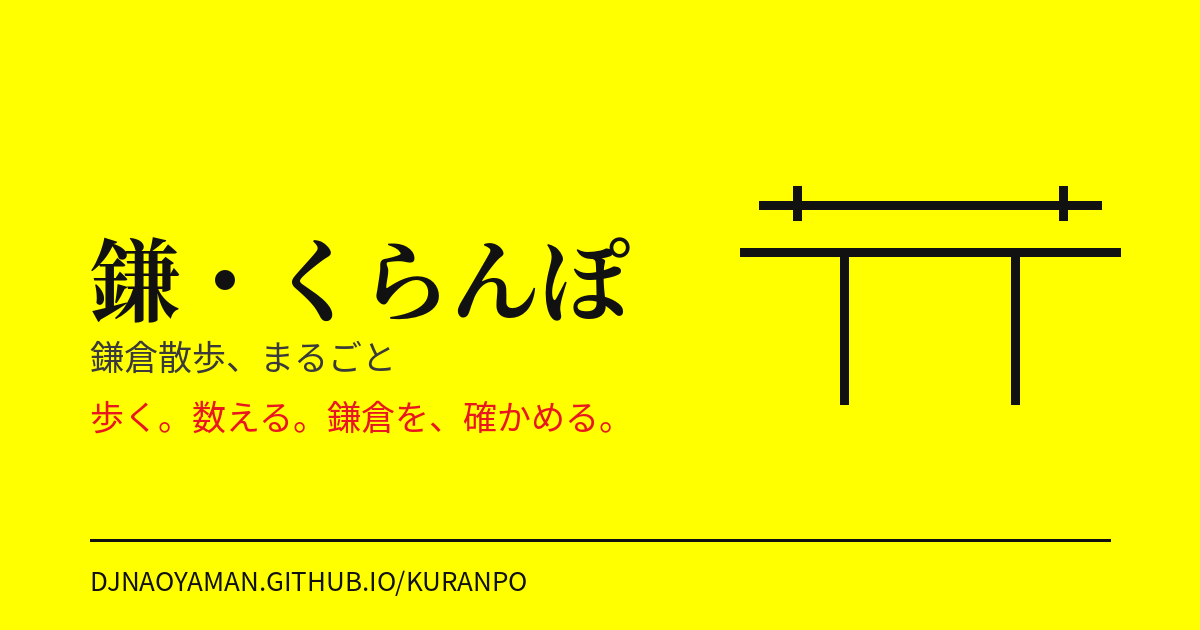
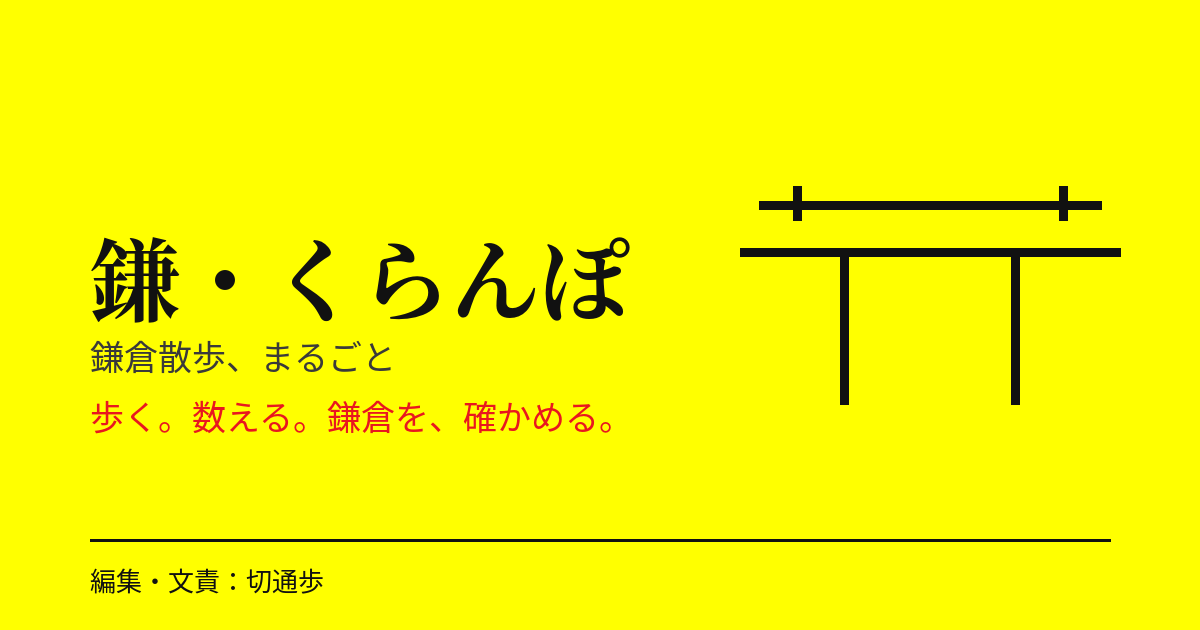
Deploy kuranpo v3.1.0 site content

Changed region(s): [[0.0617, 0.9048, 0.4317, 0.9651]]

diff --git a/changelog.html b/changelog.html
@@ -287,7 +287,8 @@
   <b style="color:var(--ink)">v2.7.0（2026-09-24）</b>：見出し・タイトル等に使っていた明朝体（Shippori Mincho）をやめ、全てゴシック体（Zen Kaku Gothic New）に統一。全36ページ・187箇所を一括変更し、不要になった明朝体フォントの読み込みも削除して軽量化した。<br>
   <b style="color:var(--ink)">v2.8.0（2026-09-24）</b>：①コースカード・章カードのグリッドを、1024px以上でも3列にせず最大2列で固定。②カードの高さがテキスト量によってバラバラに見えていたのを解消：グリッドの<code>align-items</code>を<code>stretch</code>にして同じ行のカードの高さを揃え、カード自体もflexの縦積みに変更。「くわしく読む」リンクを各カードの下端に固定し、本文の長さに関わらず読み終わりの位置が揃うようにした。<br>
   <b style="color:var(--ink)">v2.9.0（2026-09-24）</b>：これまでの度重なる配色変更の過程で、一部の色指定が古いバージョンのまま置き去りになっていたのを、全ファイルにわたって洗い出して修正。①足跡カーソルの色配列（フォールバック値）が、2世代前の配色（朱#E0391D・藍#17427E・苔#1B7A3D・黄土#D99A1B）のまま止まっていた箇所を、全36ページで現行配色に更新。②「トップに戻る」ボタンのホバー色が、最初期バージョンから一度も更新されずに残っていた（#7a2e1a／#7a2b1dの表記ゆれ含む）のを、現在の朱色に合わせて修正。③theme-colorメタタグが1世代前の朱色のままだったのを修正。④統計ボックスの文字色が、暖色系だった旧世代パレットの色（#F0DAC8等）のまま更新されておらず、現在のポップな配色から浮いていたのを、サイトの主色である黄色を軸にした配色に刷新。全ファイルでhex色・rgba値を総点検し、現行パレット以外の値がchangelogの過去バージョン記述を除いて残っていないことを確認済み。<br>
-  <b style="color:var(--ink)">v3.0.0（2026-09-24）</b>：①エリアの位置関係模式図を再設計。円のノードが5〜6文字のラベルに対して小さすぎ、文字がはみ出していたのを、角丸長方形（ピル型）に変更してラベル・コースコードが必ず収まるサイズを個別に計算。文字サイズも11px→16px、8px→11.5pxに拡大し、線・枠も太くしてサイト全体のポップな印象に合わせた。②サイト全体の文字サイズが、ポップで力強いトーン＆マナーに対して小さすぎるとの指摘を受け、本文・説明文・用語解説など読み物として使われる文字サイズを一律で約2px前後拡大（全36ページ・1199箇所）。コース別知識ページの見出しサイズも合わせて拡大。全ファイルの一括ダウンロードは<a href="kuranpo_v3.0.0.zip" style="color:var(--vermilion); text-decoration:underline;">kuranpo_v3.0.0.zip</a>から。
+  <b style="color:var(--ink)">v3.0.0（2026-09-24）</b>：①エリアの位置関係模式図を再設計。円のノードが5〜6文字のラベルに対して小さすぎ、文字がはみ出していたのを、角丸長方形（ピル型）に変更してラベル・コースコードが必ず収まるサイズを個別に計算。文字サイズも11px→16px、8px→11.5pxに拡大し、線・枠も太くしてサイト全体のポップな印象に合わせた。②サイト全体の文字サイズが、ポップで力強いトーン＆マナーに対して小さすぎるとの指摘を受け、本文・説明文・用語解説など読み物として使われる文字サイズを一律で約2px前後拡大（全36ページ・1199箇所）。コース別知識ページの見出しサイズも合わせて拡大。<br>
+  <b style="color:var(--ink)">v3.1.0（2026-09-24）</b>：以前の面白法人カヤックのWEBサイト（漫画的表現・ハーフトーン・星の爆発・ネイティブ感のあるアニメーション）を参照し、以下を実施。①「基礎知識・歴史知識」が6つのコース別チャプターと並列のカードとして並んでいたのを分離。コースを選ぶための入口ではなく読み物であることを示すため、破線囲みの横長バナーとして独立配置に変更。②トップのヒーローに、鎌倉大仏の簡略シルエット・ハーフトーンドット・きらめく星の爆発を追加。作者が歩いて確かめている土地の象徴を、抽象的な等高線モチーフから具体的な大仏モチーフへ転換。③OG画像の署名表記を、実URLに使われる技術的なGitHubアカウント名（NAOYAMAN）ではなく、このサイトの編者ペルソナである「切通歩」に修正。④コース別カード・章カードのホバー時の動きを、バネのように少し弾んでから収まる動き（オーバーシュートするイージング）に変更し、クリック時にもタップした感覚が伝わるフィードバックを追加。ゲームアプリに近いネイティブな触感を意識した。全ファイルの一括ダウンロードは<a href="kuranpo_v3.1.0.zip" style="color:var(--vermilion); text-decoration:underline;">kuranpo_v3.1.0.zip</a>から。
   <b style="color:var(--ink)">v1.9.0（2026-09-24）</b>：取りこぼしていた翻訳の追加・第1弾。index.htmlのタブ内の細部（所要時間の絞り込みボタン、エリア模式図マップの7エリア名、子供向けチャプターの理由説明4件、カードの「くわしく読む」リンク、歩いたスタンプボタンのツールチップ、季節のおすすめ11件の時期・理由、年間一覧の月名、開閉トグルボタン）を翻訳。作業の過程で、言語切替の内部処理（日本語原文のキャッシュ）が一部のカード（コンプリート版・宗教・人物・年表）の描画完了前に実行されてしまい、これらのカードで日本語に戻せなくなる可能性があったアーキテクチャ上の不具合を発見し、キャッシュ処理を全カード描画後に実行されるよう修正した。残る取りこぼし（エリア別・コンプリート版・子供向けカードのタイトルとテーマ文、宗教・人物・年表37レッグの本文）は次回以降で対応する。全ファイルの一括ダウンロードは<a href="kuranpo_v1.9.0.zip" style="color:var(--vermilion); text-decoration:underline;">kuranpo_v1.9.0.zip</a>から。
 </div>
 
@@ -386,6 +387,7 @@
     <li><span class="tag fix">v2.8.0</span>カードグリッドを1024px以上でも最大2列に固定（3列廃止）。カードの高さを行内で揃え、「くわしく読む」を下端に固定して文字量による見た目の不揃いを解消。</li>
     <li><span class="tag fix">v2.9.0</span>度重なる配色変更の過程で置き去りになっていた古い色指定を全ファイルで洗い出し修正：足跡カーソルの色配列、戻るボタンのホバー色、theme-colorメタタグ、統計ボックスの文字色。全て現行パレットに統一。</li>
     <li><span class="tag major">v3.0.0</span>エリア模式図を円からピル型に再設計し、文字はみ出しを解消。サイト全体の文字サイズをポップなトーンに合わせて一律拡大（約2px、全36ページ・1199箇所）。</li>
+    <li><span class="tag major">v3.1.0</span>面白法人カヤックの旧WEBサイトを参照。「基礎知識・歴史知識」をコースカードから分離し破線バナーに。ヒーローに大仏シルエット・ハーフトーン・星の爆発を追加。OG画像の署名を「切通歩」に修正。カード類のホバーをバネのように弾む動きに変更。</li>
   </ol>
 </section>
 

diff --git a/index.html b/index.html
@@ -113,8 +113,14 @@
 
   .contour-motif{
     position:absolute; top:0; right:0; height:100%; width:56%; max-width:640px;
-    color:var(--ink); opacity:.10; pointer-events:none;
+    color:var(--ink); opacity:.9; pointer-events:none;
   }
+  .am-star{color:var(--vermilion); animation:starTwinkle 2.4s ease-in-out infinite;}
+  @keyframes starTwinkle{
+    0%,100%{opacity:.5; transform-origin:center;}
+    50%{opacity:1;}
+  }
+  @media (prefers-reduced-motion: reduce){ .am-star{animation:none;} }
 
   /* ---------- back to top ---------- */
   .back-to-top{
@@ -213,11 +219,12 @@
   .ch{
     display:block; background:var(--card); padding:26px 22px 24px; cursor:pointer;
     border:3px solid var(--ink); border-radius:18px;
-    transition:transform .18s ease, box-shadow .18s ease;
+    transition:transform .28s cubic-bezier(.34,1.56,.64,1), box-shadow .28s cubic-bezier(.34,1.56,.64,1);
     text-decoration:none; color:inherit;
     box-shadow:5px 5px 0 rgba(17,17,17,0.14);
   }
-  .ch:hover{transform:rotate(-0.5deg) translateY(-3px); box-shadow:7px 8px 0 rgba(17,17,17,0.18);}
+  .ch:hover{transform:rotate(-1deg) translateY(-5px) scale(1.02); box-shadow:9px 10px 0 rgba(17,17,17,0.2);}
+  .ch:active{transform:rotate(-0.3deg) translateY(-1px) scale(.99); transition-duration:.05s;}
   .ch[data-tab="geo"] .ch-no, .ch[data-tab="kids"] .ch-no, .ch[data-tab="complete"] .ch-no{background:var(--vermilion);}
   .ch[data-tab="religion"] .ch-no{background:var(--moss);}
   .ch[data-tab="person"] .ch-no{background:var(--indigo);}
@@ -240,6 +247,22 @@
     border-bottom:1px solid var(--line); padding-bottom:1px; transition:border-color .2s ease, color .2s ease;
   }
   .ch:hover .ch-link{color:var(--vermilion); border-color:var(--vermilion);}
+
+  .ref-banner{
+    display:flex; align-items:center; gap:14px; margin-top:18px; padding:16px 18px;
+    background:#fff; border:3px dashed var(--ink); border-radius:14px;
+    text-decoration:none; color:inherit; transition:transform .15s ease, background .15s ease;
+  }
+  .ref-banner:hover{transform:translateY(-2px); background:var(--vermilion-bg);}
+  .ref-banner-icon{font-size:28px; flex:0 0 auto;}
+  .ref-banner-body{flex:1 1 auto; display:flex; flex-direction:column; gap:2px;}
+  .ref-banner-body b{font-size:15px;}
+  .ref-banner-body span{font-size:13px; color:var(--ink-soft); line-height:1.6;}
+  .ref-banner-links{font-family:"IBM Plex Mono", monospace; font-size:11px; color:var(--ink-soft); flex:0 0 auto; white-space:nowrap;}
+  @media (max-width:600px){
+    .ref-banner{flex-wrap:wrap;}
+    .ref-banner-links{width:100%; padding-left:42px;}
+  }
 
   @media (min-width:768px){
     .ch-grid{grid-template-columns:repeat(2,1fr);}
@@ -332,11 +355,12 @@
     margin:0 0 14px; padding:16px 18px 16px;
     text-decoration:none; color:inherit;
     opacity:0;
-    transition:opacity .5s ease, transform .18s ease, box-shadow .18s ease;
+    transition:opacity .5s ease, transform .28s cubic-bezier(.34,1.56,.64,1), box-shadow .28s cubic-bezier(.34,1.56,.64,1);
     box-shadow:4px 4px 0 rgba(17,17,17,0.12);
   }
   .card.in-view{opacity:1;}
-  .card:hover{transform:rotate(-0.6deg) translateY(-3px); box-shadow:6px 7px 0 rgba(17,17,17,0.16);}
+  .card:hover{transform:rotate(-1.2deg) translateY(-5px) scale(1.02); box-shadow:8px 9px 0 rgba(17,17,17,0.18);}
+  .card:active{transform:rotate(-0.3deg) translateY(-1px) scale(.99); transition-duration:.05s;}
 
   .card{position:relative;}
   .progress-note{
@@ -530,11 +554,24 @@
 
 <header class="site" id="top">
   <svg class="contour-motif" viewBox="0 0 640 640" aria-hidden="true" preserveAspectRatio="xMaxYMid slice">
-    <path d="M 520 60 C 620 120 640 260 560 340 C 480 420 340 440 280 380" fill="none" stroke="currentColor" stroke-width="1.4"/>
-    <path d="M 480 20 C 610 70 660 240 560 360 C 460 480 280 490 210 400" fill="none" stroke="currentColor" stroke-width="1.4"/>
-    <path d="M 440 -10 C 600 30 690 230 560 390 C 440 540 220 540 140 420" fill="none" stroke="currentColor" stroke-width="1.4"/>
-    <path d="M 400 -30 C 590 -10 720 220 560 420 C 410 600 160 590 70 440" fill="none" stroke="currentColor" stroke-width="1.4"/>
-    <circle cx="560" cy="230" r="3" fill="currentColor"/>
+    <defs>
+      <pattern id="halftone" width="14" height="14" patternUnits="userSpaceOnUse">
+        <circle cx="7" cy="7" r="3" fill="currentColor"/>
+      </pattern>
+      <clipPath id="buddhaClip"><circle cx="430" cy="330" r="230"/></clipPath>
+    </defs>
+    <circle cx="430" cy="330" r="230" fill="url(#halftone)" opacity=".14" clip-path="url(#buddhaClip)"/>
+    <circle cx="430" cy="330" r="230" fill="none" stroke="currentColor" stroke-width="4"/>
+    <!-- 鎌倉大仏（簡略シルエット） -->
+    <g transform="translate(430,330)" fill="none" stroke="currentColor" stroke-width="7" stroke-linejoin="round" stroke-linecap="round">
+      <path d="M -95 120 C -95 40 -70 -30 0 -30 C 70 -30 95 40 95 120 Z"/>
+      <circle cx="0" cy="-95" r="52"/>
+      <path d="M -60 60 C -40 90 40 90 60 60"/>
+      <path d="M -95 120 L -125 130 L 125 130 L 95 120"/>
+    </g>
+    <g class="am-star" style="animation-delay:0s" transform="translate(560,110) rotate(12)"><path d="M0-22 L6-6 22 0 6 6 0 22 -6 6 -22 0 -6-6Z" fill="currentColor"/></g>
+    <g class="am-star" style="animation-delay:.5s" transform="translate(150,90) rotate(-8) scale(.6)"><path d="M0-22 L6-6 22 0 6 6 0 22 -6 6 -22 0 -6-6Z" fill="currentColor"/></g>
+    <g class="am-star" style="animation-delay:1s" transform="translate(590,480) rotate(20) scale(.75)"><path d="M0-22 L6-6 22 0 6 6 0 22 -6 6 -22 0 -6-6Z" fill="currentColor"/></g>
   </svg>
   <div class="inner">
     <p class="kicker reveal-line" data-i18n="site.kicker">鎌倉さんぽ、まるごと</p>
@@ -630,15 +667,16 @@
       <p data-i18n="chapters.complete.desc">エリア別コースが訪ねなかった社寺を拾う、補足の16コース。すべて歩いた人向け。</p>
       <span class="ch-link" data-i18n="chapters.complete.link">16コースを見る</span>
     </a>
-    <div class="ch ch-ref" onclick="location.href='basics.html'">
-      <p class="ch-no mincho">＋</p>
-      <p class="ch-en">Reference</p>
-      <h3 class="mincho" data-i18n="chapters.ref.title">基礎知識・歴史知識</h3>
-      <p class="ch-tagline mincho" data-i18n="chapters.ref.tagline">知ってから歩くと、同じ道が違って見える。</p>
-      <p data-i18n="chapters.ref.desc">歩く前に読む用語集と、コース別の歴史知識。別ページにまとめた。</p>
-      <span class="ch-link">basics.html / history.html</span>
-    </div>
   </div>
+
+  <a class="ref-banner" href="basics.html">
+    <span class="ref-banner-icon">📖</span>
+    <span class="ref-banner-body">
+      <b data-i18n="chapters.ref.title">基礎知識・歴史知識</b>
+      <span data-i18n="chapters.ref.desc">歩く前に読む用語集と、コース別の歴史知識。コースではなく、読み物として別ページにまとめてある。</span>
+    </span>
+    <span class="ref-banner-links">basics.html / history.html</span>
+  </a>
 </section>
 
 <div class="intro">
